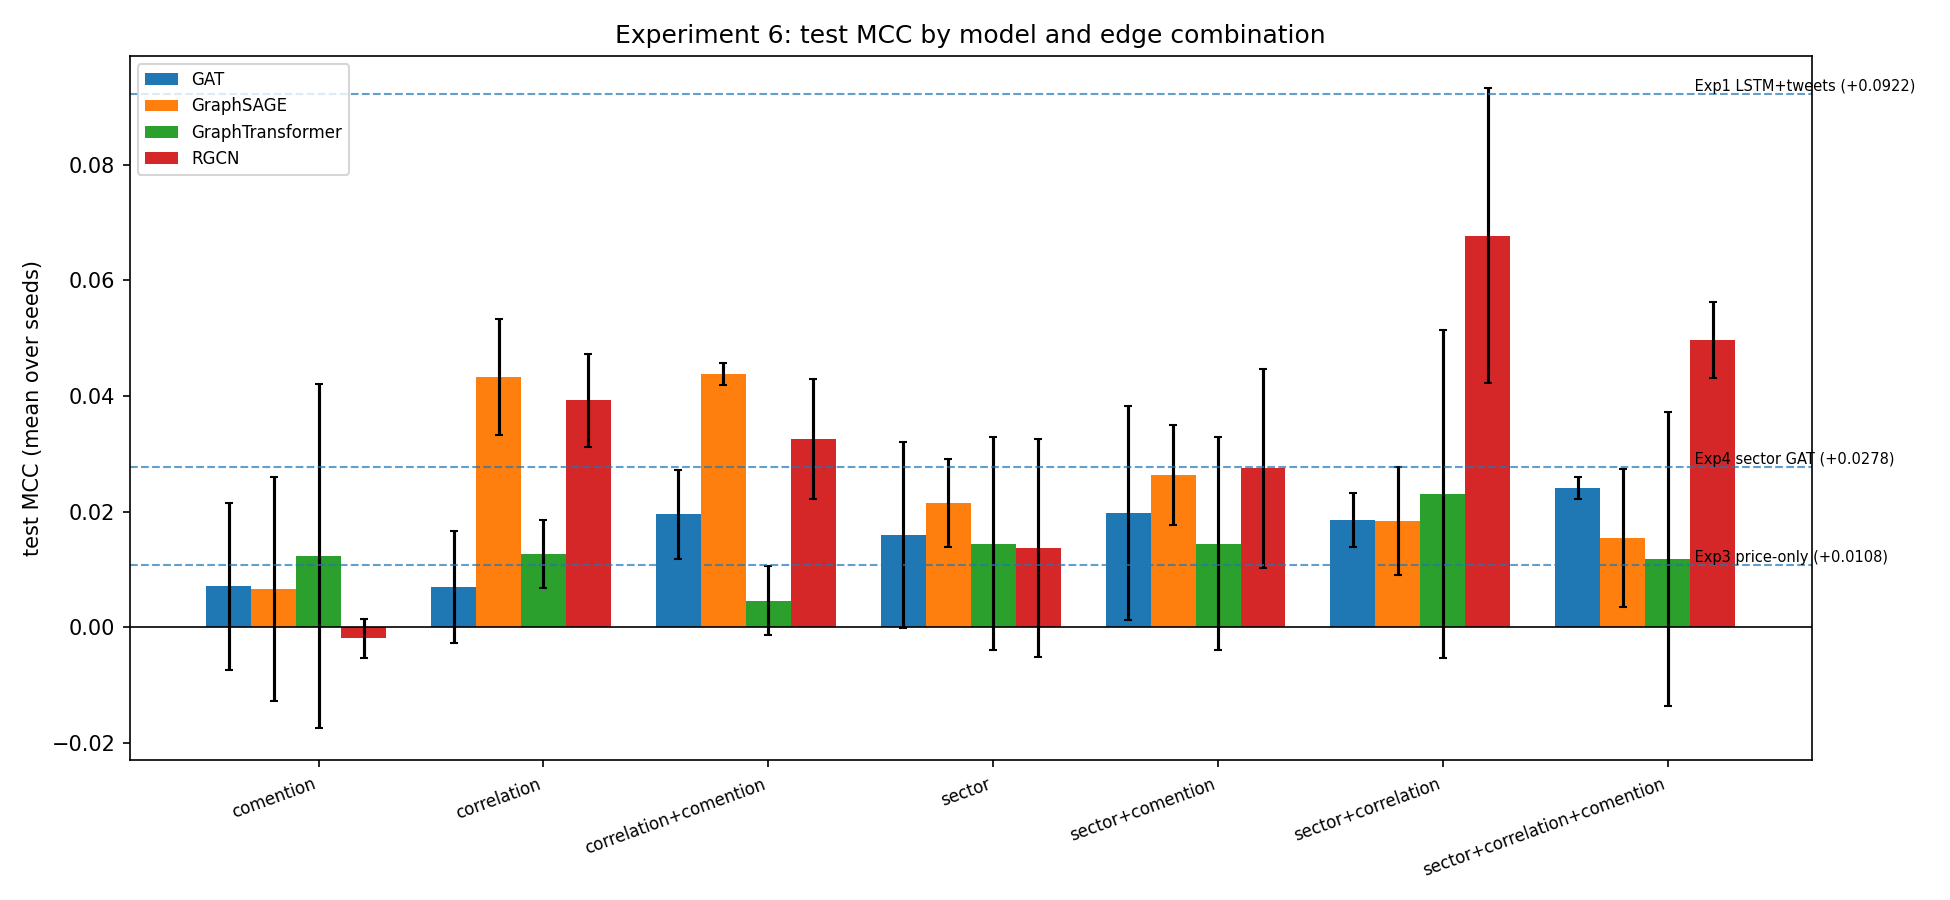
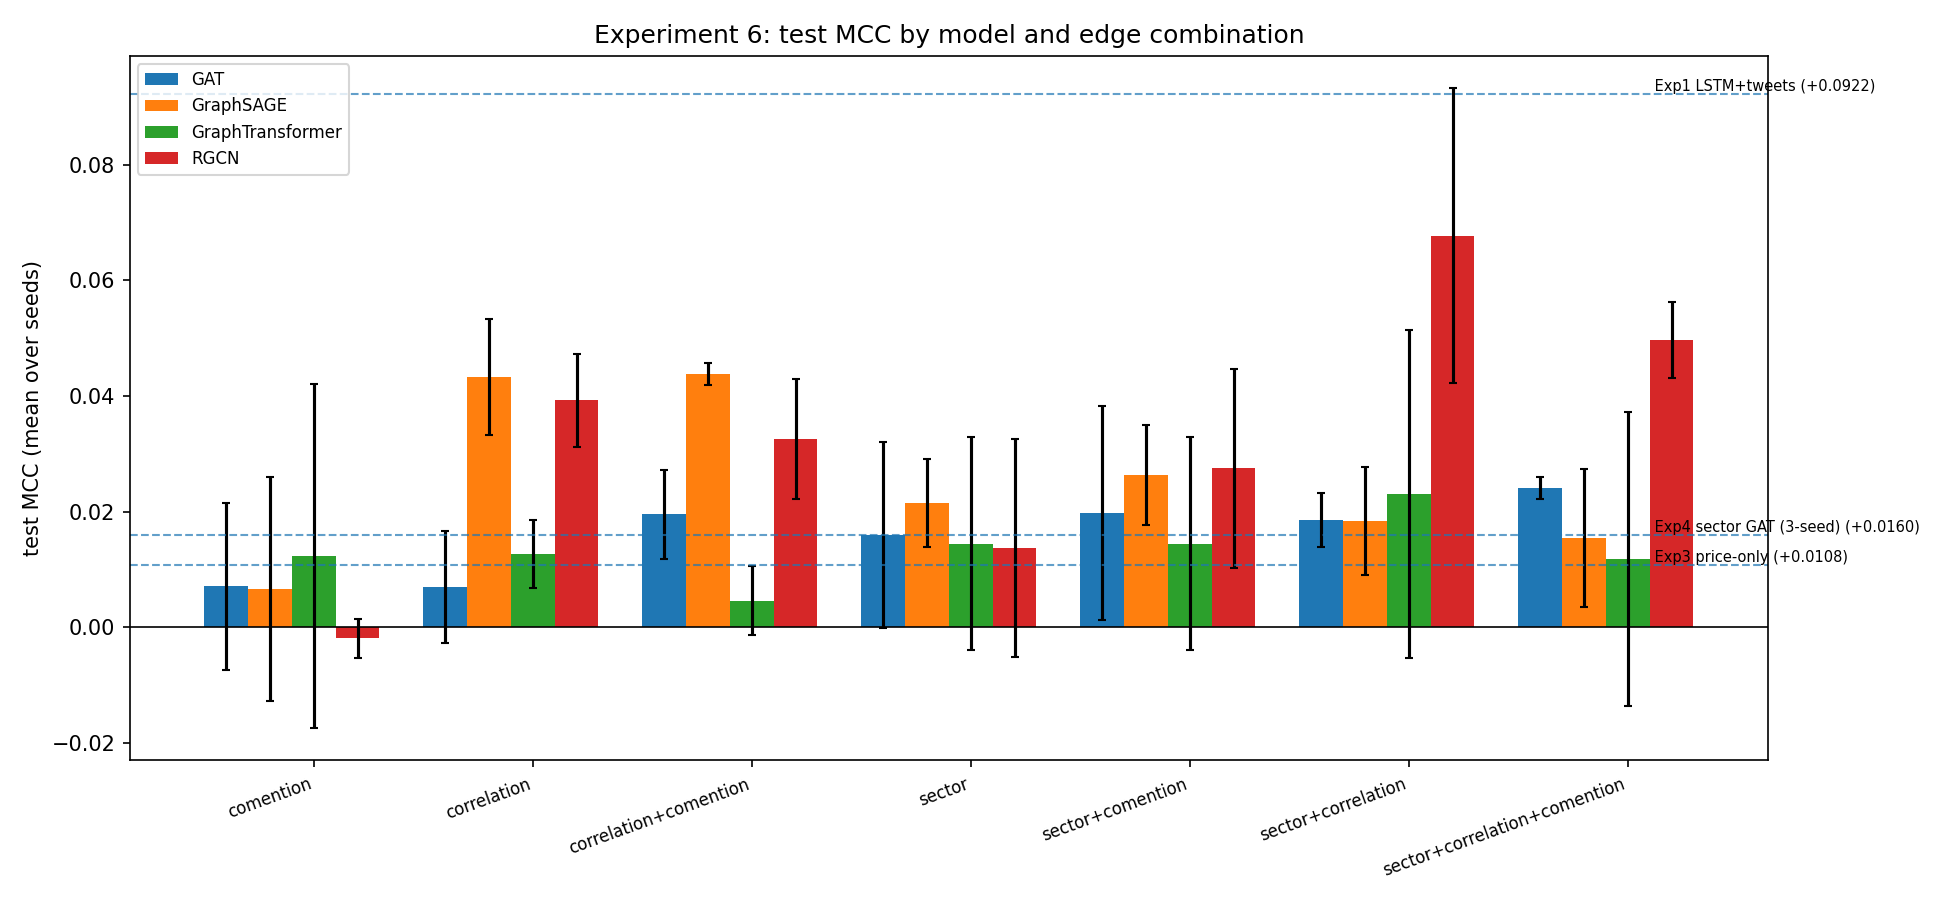
Quote Exp4's sector GAT at its multi-seed value in the results figure
The MCC figure drew its Exp4 baseline at the published single-seed
+0.0278, which section 5 of the write-up explicitly retracts -- the
figure asserted on its face the number the text says not to carry
forward. Quote the 3-seed +0.0160 instead.

Also record on Task 11 that the grid ran locally on CPU rather than
Colab, so a later reader does not go looking for Colab results that were
never produced.

diff --git a/scripts/make_experiment6_figures.py b/scripts/make_experiment6_figures.py
@@ -16,7 +16,12 @@ from src.data.edge_cache import load_edge_cache
 OUT_DIR = "results/experiment6_dense_graph"
 FIG_DIR = os.path.join(OUT_DIR, "figures")
 SECTOR_CSV = "dataset/final/sector_mapping.csv"
-BASELINES = {"Exp1 LSTM+tweets": 0.0922, "Exp3 price-only": 0.0108, "Exp4 sector GAT": 0.0278}
+# Exp4's sector GAT is quoted at its Experiment 6 multi-seed value (+0.0160,
+# mean of 3 seeds), NOT its published single-seed +0.0278. That single seed
+# sits inside this experiment's seed spread and is not carried forward -- see
+# results/experiment6_dense_graph/EXPERIMENT6_DENSE_GRAPH.md section 5.
+BASELINES = {"Exp1 LSTM+tweets": 0.0922, "Exp3 price-only": 0.0108,
+             "Exp4 sector GAT (3-seed)": 0.0160}
 
 
 def draw_graph(pairs, sectors: dict, title: str, path: str) -> None:

diff --git a/docs/superpowers/plans/2026-09-03-dense-graph-experiment.md b/docs/superpowers/plans/2026-09-03-dense-graph-experiment.md
@@ -1622,7 +1622,13 @@ runner to skip those cells there.
 
 ---
 
-## Task 11: Results write-up — BLOCKED until Colab results return
+## Task 11: Results write-up — DONE (2026-09-08)
+
+> **Unblocked and completed.** The grid was run **locally on CPU**
+> (`scripts/run_dense_graph_grid.py --pass 3`, all 84 cells, ~2 days
+> wall-clock) rather than on Colab, so the block below is moot — there is
+> no pending Colab run to wait for. Real `results.csv` and the write-up are
+> committed; see `results/experiment6_dense_graph/EXPERIMENT6_DENSE_GRAPH.md`.
 
 **Files:**
 - Create: `results/experiment6_dense_graph/EXPERIMENT6_DENSE_GRAPH.md`
